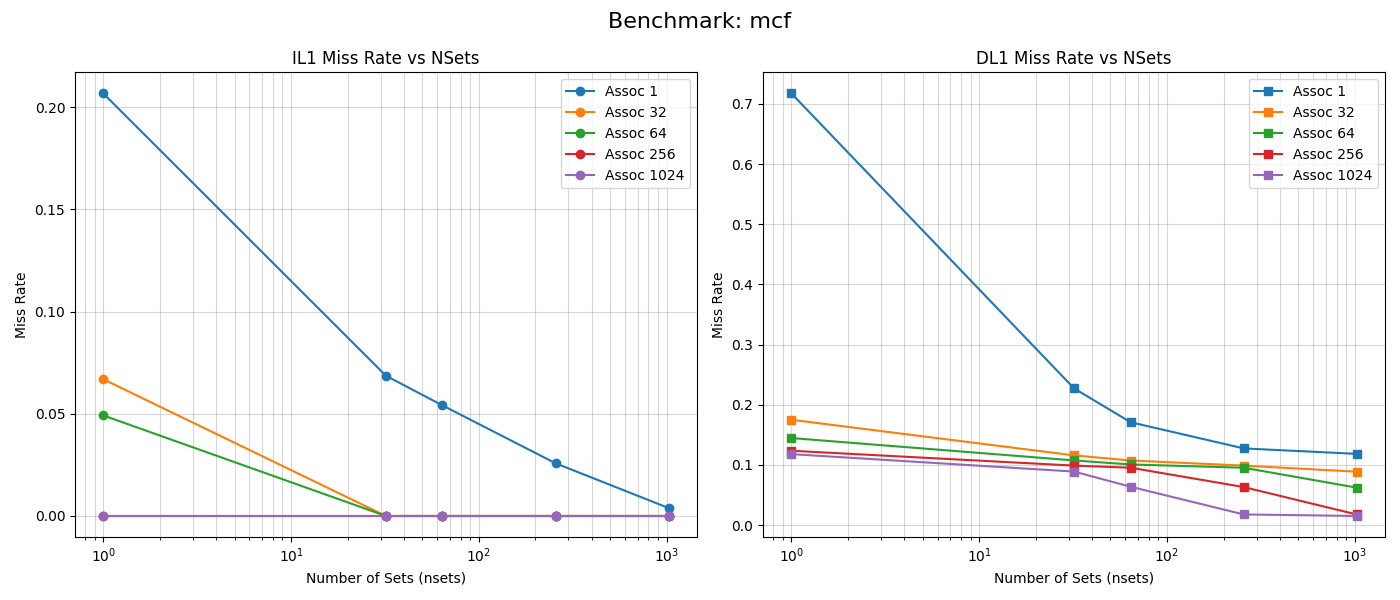
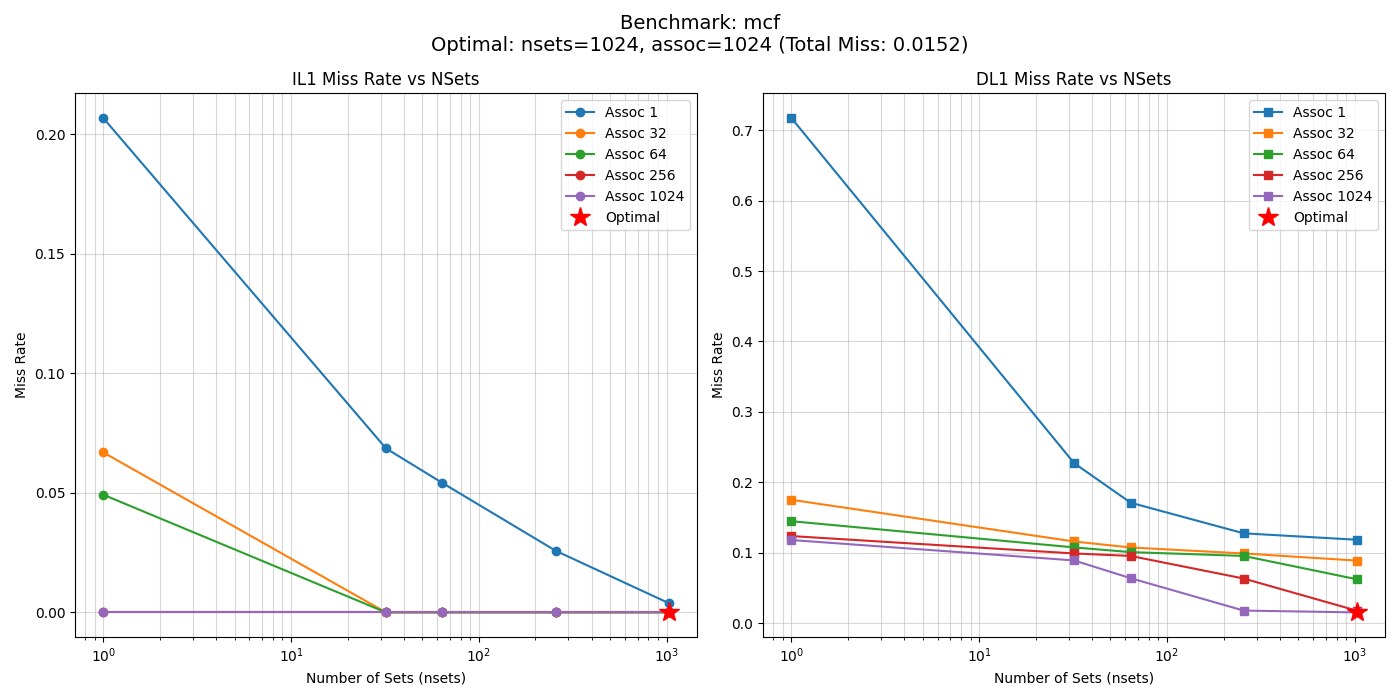
update

diff --git a/analyze.py b/analyze.py
@@ -78,9 +78,15 @@ else:
         # 3. 데이터 정렬
         data.sort(key=lambda x: (x['assoc'], x['nsets']))
 
+        # 최적값 찾기 (IL1 + DL1 Miss Rate 합이 최소인 지점)
+        # 정렬이 (assoc, nsets) 오름차순이므로, min을 사용하면 동일한 성능일 경우 더 작은 리소스를 사용하는 설정이 선택됨
+        best_config = min(data, key=lambda x: x['il1'] + x['dl1'])
+        best_info = f"Optimal: nsets={best_config['nsets']}, assoc={best_config['assoc']} (Total Miss: {best_config['il1'] + best_config['dl1']:.4f})"
+        print(f"  -> {best_info}")
+
         # 4. 그래프 그리기
-        fig, (ax1, ax2) = plt.subplots(1, 2, figsize=(14, 6))
-        fig.suptitle(f'Benchmark: {benchmark}', fontsize=16)
+        fig, (ax1, ax2) = plt.subplots(1, 2, figsize=(14, 7))
+        fig.suptitle(f'Benchmark: {benchmark}\n{best_info}', fontsize=14)
 
         # 고유한 assoc 값들 추출 (범례용)
         assocs = sorted(list(set(d['assoc'] for d in data)))
@@ -94,6 +100,9 @@ else:
             y_vals = [d['il1'] for d in subset]
             
             ax1.plot(x_vals, y_vals, marker='o', label=f'Assoc {a}')
+
+        # 최적점 표시
+        ax1.plot(best_config['nsets'], best_config['il1'], 'r*', markersize=15, zorder=10, label='Optimal')
 
         ax1.set_title('IL1 Miss Rate vs NSets')
         ax1.set_xlabel('Number of Sets (nsets)')
@@ -112,6 +121,9 @@ else:
             
             ax2.plot(x_vals, y_vals, marker='s', label=f'Assoc {a}')
 
+        # 최적점 표시
+        ax2.plot(best_config['nsets'], best_config['dl1'], 'r*', markersize=15, zorder=10, label='Optimal')
+
         ax2.set_title('DL1 Miss Rate vs NSets')
         ax2.set_xlabel('Number of Sets (nsets)')
         ax2.set_ylabel('Miss Rate')
@@ -124,6 +136,104 @@ else:
         plt.savefig(output_filename)
         print(f"Saved graph to {output_filename}")
         plt.close(fig)
-        plt.savefig('my_plot.png') 
-        print("그래프가 my_plot.png로 저장되었습니다.")
-# %%
+
+# 5. 전체 벤치마크 종합 분석 (Global Analysis)
+print("\nPerforming Global Analysis...")
+global_configs = {} # (nsets, assoc) -> [miss_rates...]
+
+for bench, data_list in benchmarks_data.items():
+    for d in data_list:
+        key = (d['nsets'], d['assoc'])
+        total_miss = d['il1'] + d['dl1']
+        if key not in global_configs:
+            global_configs[key] = []
+        global_configs[key].append(total_miss)
+
+# 평균 계산
+avg_data = []
+for (nsets, assoc), miss_list in global_configs.items():
+    avg_miss = sum(miss_list) / len(miss_list)
+    avg_data.append({
+        'nsets': nsets,
+        'assoc': assoc,
+        'avg_miss': avg_miss
+    })
+
+avg_data.sort(key=lambda x: (x['assoc'], x['nsets']))
+
+# Global Optimal 찾기
+best_global = min(avg_data, key=lambda x: x['avg_miss'])
+print(f"Global Optimal: nsets={best_global['nsets']}, assoc={best_global['assoc']}, Avg Miss={best_global['avg_miss']:.4f}")
+
+# Global Average 그래프 그리기
+fig_g, ax_g = plt.subplots(figsize=(10, 6))
+assocs = sorted(list(set(d['assoc'] for d in avg_data)))
+
+for a in assocs:
+    subset = [d for d in avg_data if d['assoc'] == a]
+    subset.sort(key=lambda x: x['nsets'])
+    x_vals = [d['nsets'] for d in subset]
+    y_vals = [d['avg_miss'] for d in subset]
+    ax_g.plot(x_vals, y_vals, marker='o', label=f'Assoc {a}')
+
+ax_g.plot(best_global['nsets'], best_global['avg_miss'], 'r*', markersize=15, zorder=10, label='Optimal')
+ax_g.set_title(f'Global Average Miss Rate vs NSets\nOptimal: n={best_global["nsets"]}, a={best_global["assoc"]}')
+ax_g.set_xlabel('Number of Sets')
+ax_g.set_ylabel('Average Total Miss Rate (IL1+DL1)')
+ax_g.set_xscale('log')
+ax_g.grid(True, which="both", ls="-", alpha=0.5)
+ax_g.legend()
+plt.tight_layout()
+plt.savefig('global_average_result.png')
+plt.close(fig_g)
+print("Saved global_average_result.png")
+
+# 6. Set vs Assoc Trade-off Analysis (Same Cache Size)
+# Cache Size metric ~ nsets * assoc
+size_analysis = {} # size -> {'sets_dominant': [], 'assoc_dominant': [], 'equal': []}
+
+for d in avg_data:
+    size = d['nsets'] * d['assoc']
+    if size not in size_analysis:
+        size_analysis[size] = {'sets_dominant': [], 'assoc_dominant': [], 'equal': []}
+    
+    if d['nsets'] > d['assoc']:
+        size_analysis[size]['sets_dominant'].append(d['avg_miss'])
+    elif d['assoc'] > d['nsets']:
+        size_analysis[size]['assoc_dominant'].append(d['avg_miss'])
+    else:
+        size_analysis[size]['equal'].append(d['avg_miss'])
+
+sizes = sorted(size_analysis.keys())
+sets_dom_vals = []
+assoc_dom_vals = []
+valid_sizes = []
+
+for s in sizes:
+    s_list = size_analysis[s]['sets_dominant']
+    a_list = size_analysis[s]['assoc_dominant']
+    
+    # 데이터가 있는 경우에만 그래프에 포함
+    if s_list or a_list:
+        valid_sizes.append(s)
+        sets_val = sum(s_list)/len(s_list) if s_list else None
+        assoc_val = sum(a_list)/len(a_list) if a_list else None
+        sets_dom_vals.append(sets_val)
+        assoc_dom_vals.append(assoc_val)
+
+fig_t, ax_t = plt.subplots(figsize=(10, 6))
+# None 값은 plot에서 자동으로 건너뜀 (연결되지 않음) -> 연결되게 하려면 필터링 필요하지만, 여기선 점으로 표현하거나 끊겨도 무방
+# 명확한 비교를 위해 선 그래프 + 마커 사용
+ax_t.plot(valid_sizes, sets_dom_vals, marker='o', linestyle='-', label='Sets > Assoc (More Sets)')
+ax_t.plot(valid_sizes, assoc_dom_vals, marker='s', linestyle='--', label='Assoc > Sets (More Assoc)')
+
+ax_t.set_title('Impact of Configuration on Miss Rate (Fixed Cache Size)')
+ax_t.set_xlabel('Cache Size Index (nsets * assoc)')
+ax_t.set_ylabel('Average Total Miss Rate')
+ax_t.set_xscale('log')
+ax_t.grid(True, which="both", ls="-", alpha=0.5)
+ax_t.legend()
+plt.tight_layout()
+plt.savefig('set_vs_assoc_tradeoff.png')
+plt.close(fig_t)
+print("Saved set_vs_assoc_tradeoff.png")
